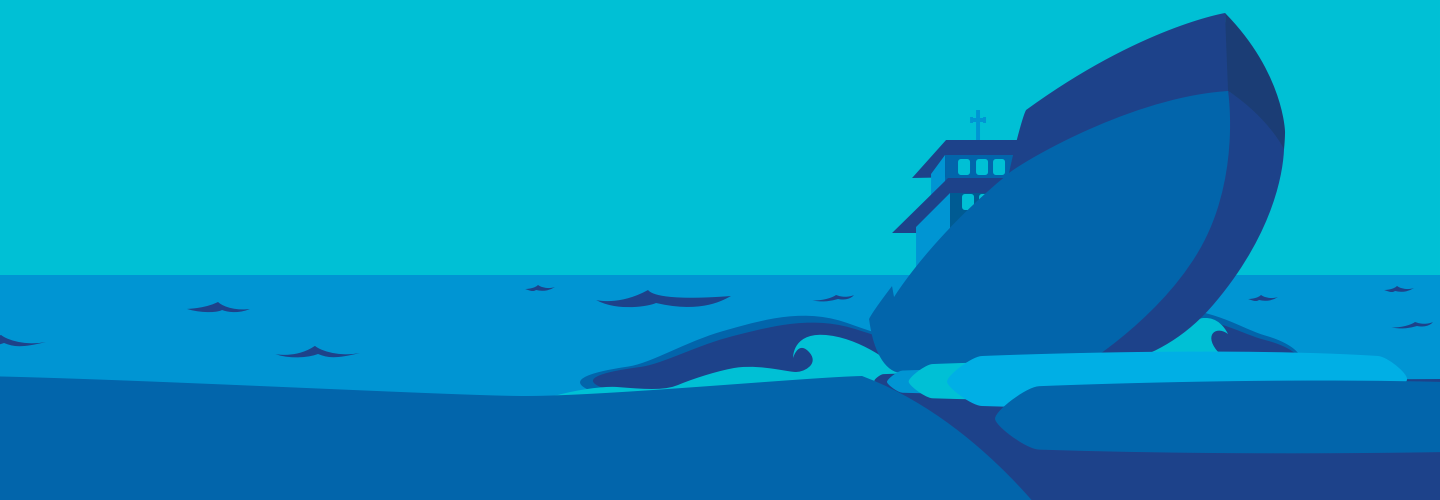
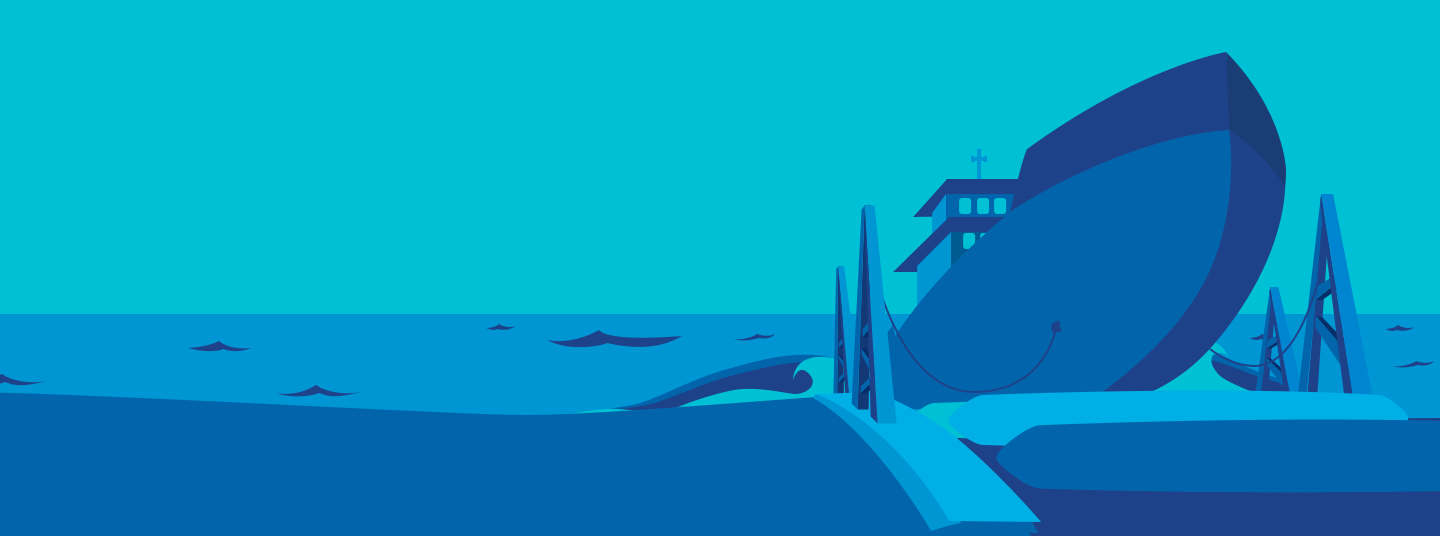
Styles updates -replace kapp hero image -center align grid headers

Changed region(s): [[0.0, 0.03, 1.0, 0.99], [0.9688, 0.63, 1.0, 0.69], [0.7188, 0.6, 0.75, 0.63]]

diff --git a/themes/carvel/assets/scss/_components.scss b/themes/carvel/assets/scss/_components.scss
@@ -280,6 +280,9 @@
             min-height: 83px;
             text-align: center;
         }
+        h3 {
+            text-align: center;
+        }
     }
     @include breakpoint(small) {
         .col:nth-of-type(2) {
